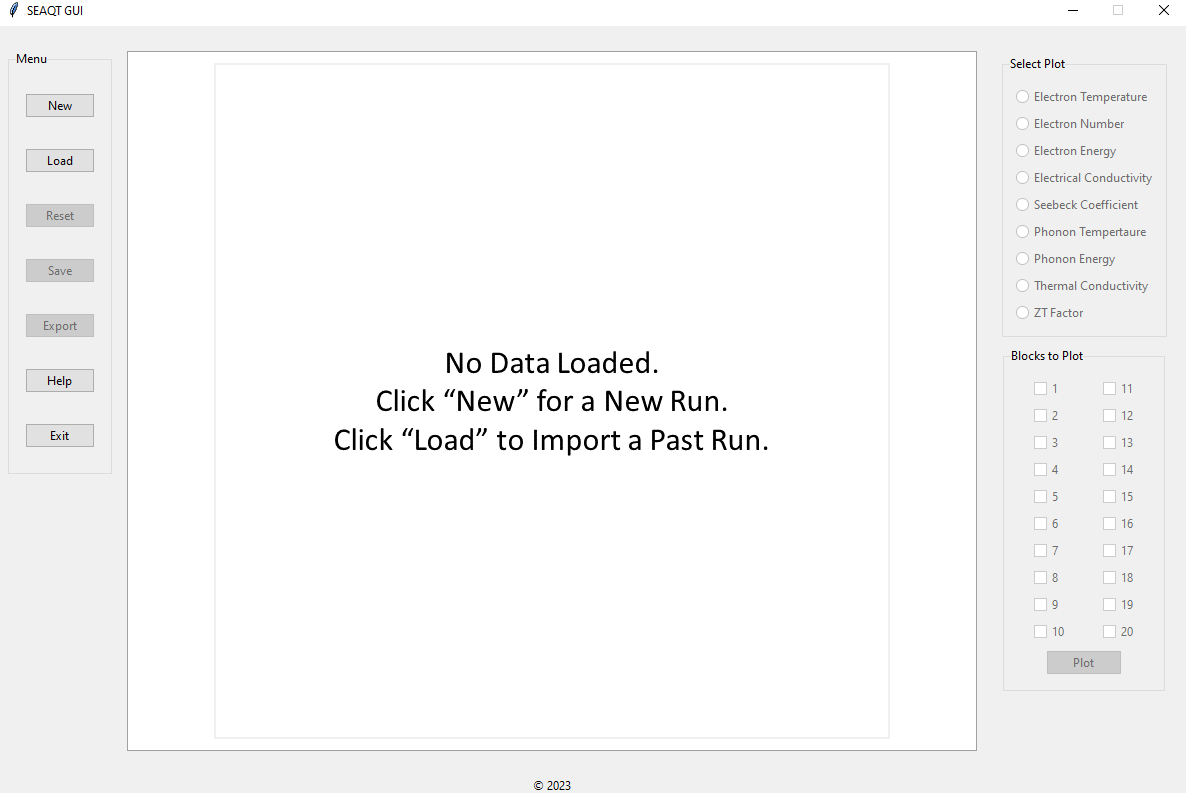
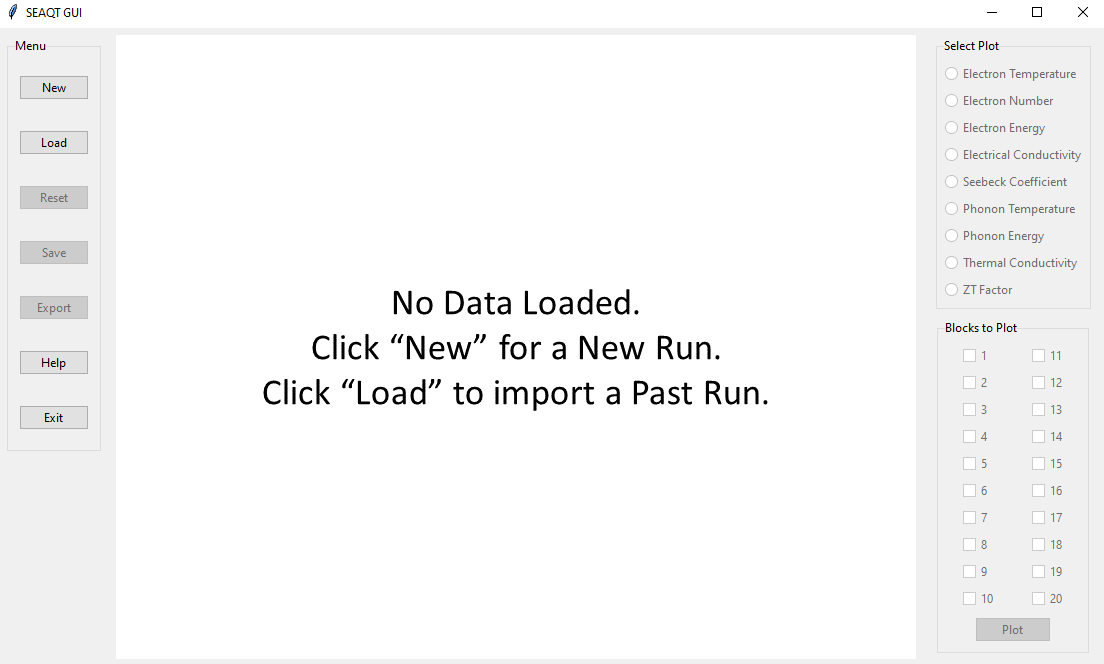
Reduced size of input window; Re-took screenshots for README

diff --git a/Frontend/SEAQT_GUI.py b/Frontend/SEAQT_GUI.py
@@ -507,7 +507,7 @@ class SEAQTGui():
         # Create master frame for base parameters
         top_window = ttk.Frame(
             input_window,
-            padding=10
+            padding=5
         )
         top_window.grid(column=0, row=0)
 
@@ -517,7 +517,7 @@ class SEAQTGui():
         # Create master frame for block parameters
         self.block_master_frame = ttk.Frame(
             input_window,
-            padding=10
+            padding=5
         )
         self.block_master_frame.grid(column=0, row=2)
 
@@ -527,7 +527,7 @@ class SEAQTGui():
         base_parameter_input = ttk.LabelFrame(
             top_top_window,
             text='Base Parameters',
-            padding=10,
+            padding=5,
             relief=SOLID
         )
         base_parameter_input.grid(column=0, row=0, padx=5, pady=5)
@@ -658,14 +658,20 @@ class SEAQTGui():
 
         # ~~~~~~~~~~~~~~~~~~~~~~~~~~~~~~~~~~~~~~~~~~~~~~~~~~~~~~~~~~~~~~~~~~~ # 
 
+        # Create top-right frame
+        top_right_frame = ttk.Frame(
+            top_top_window
+        )
+        top_right_frame.grid(column=1, row=0, padx=5, pady=5, sticky=N)
+
         # Create info frame
         info_frame = ttk.LabelFrame(
-            top_top_window, 
+            top_right_frame, 
             text='Info',
-            padding=10,
+            padding=5,
             relief=SOLID
         )
-        info_frame.grid(column=1, row=0, padx=5, pady=5, sticky=N)
+        info_frame.grid(column=0, row=0, padx=5, pady=5, sticky=N)
 
         # Info label
         ttk.Label(
@@ -673,25 +679,23 @@ class SEAQTGui():
             text='Block: a pair of local systems (electron & phonon)\n\nTau: the relaxation parameter'
         ).grid(column=0, row=0, sticky=NW)
 
-        # ~~~~~~~~~~~~~~~~~~~~~~~~~~~~~~~~~~~~~~~~~~~~~~~~~~~~~~~~~~~~~~~~~~~ #
-
-        ttk.Separator(top_window, orient=HORIZONTAL).pack(fill=X, pady=7)
-
+        # Default params button
         ttk.Button(
-            top_window,
-            padding=5,
+            top_right_frame,
             text='Import Default Data and Parameters',
             command=self.import_default_settings
-        ).pack(pady=7)
+        ).grid(column=0, row=1, pady=3)
 
-        ttk.Separator(top_window, orient=HORIZONTAL).pack(fill=X, pady=7)
+        # ~~~~~~~~~~~~~~~~~~~~~~~~~~~~~~~~~~~~~~~~~~~~~~~~~~~~~~~~~~~~~~~~~~~ #
+
+        ttk.Separator(top_window, orient=HORIZONTAL).pack(fill=X, pady=3)
 
         # ~~~~~~~~~~~~~~~~~~~~~~~~~~~~~~~~~~~~~~~~~~~~~~~~~~~~~~~~~~~~~~~~~~~ #
 
         # Create frame for bottom buttons
         data_input_button_frame = ttk.Frame(
             input_window,
-            padding=10
+            padding=5
         )
         data_input_button_frame.grid(column=0, row=3, padx=5, pady=5)
 
@@ -853,7 +857,7 @@ class SEAQTGui():
                 command=self.update_block_data_window,
                 value=i + 1
             )
-            rb.grid(column=(i // int((num_blocks / 2) + 0.5)) % 2, row=i % int((num_blocks / 2) + 0.5), padx=8, pady=4, sticky=W)
+            rb.grid(column=(i // int((num_blocks / 2) + 0.5)) % 2, row=i % int((num_blocks / 2) + 0.5), padx=5, pady=4, sticky=W)
             self.block_radio_buttons.append(rb)
 
     
